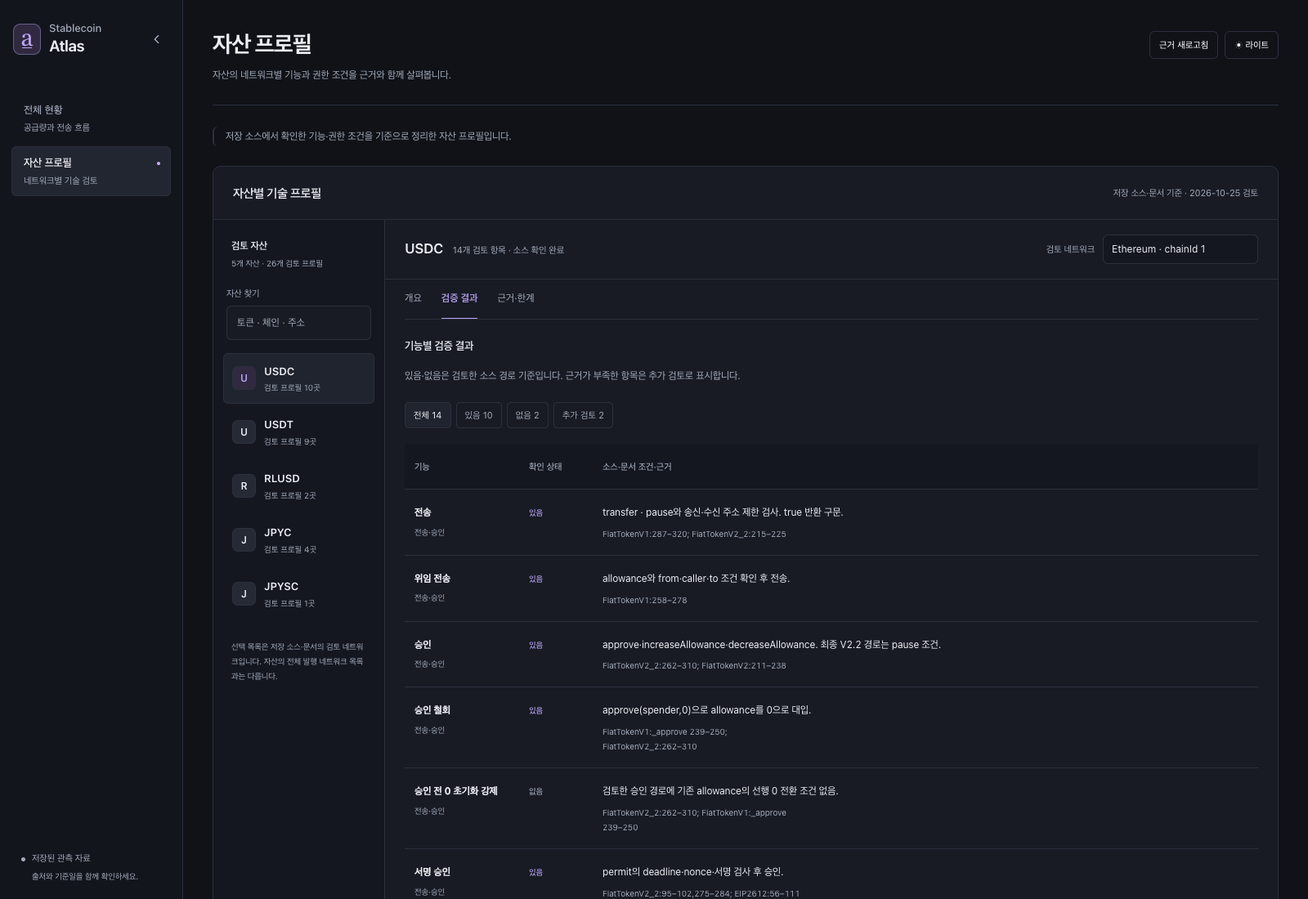
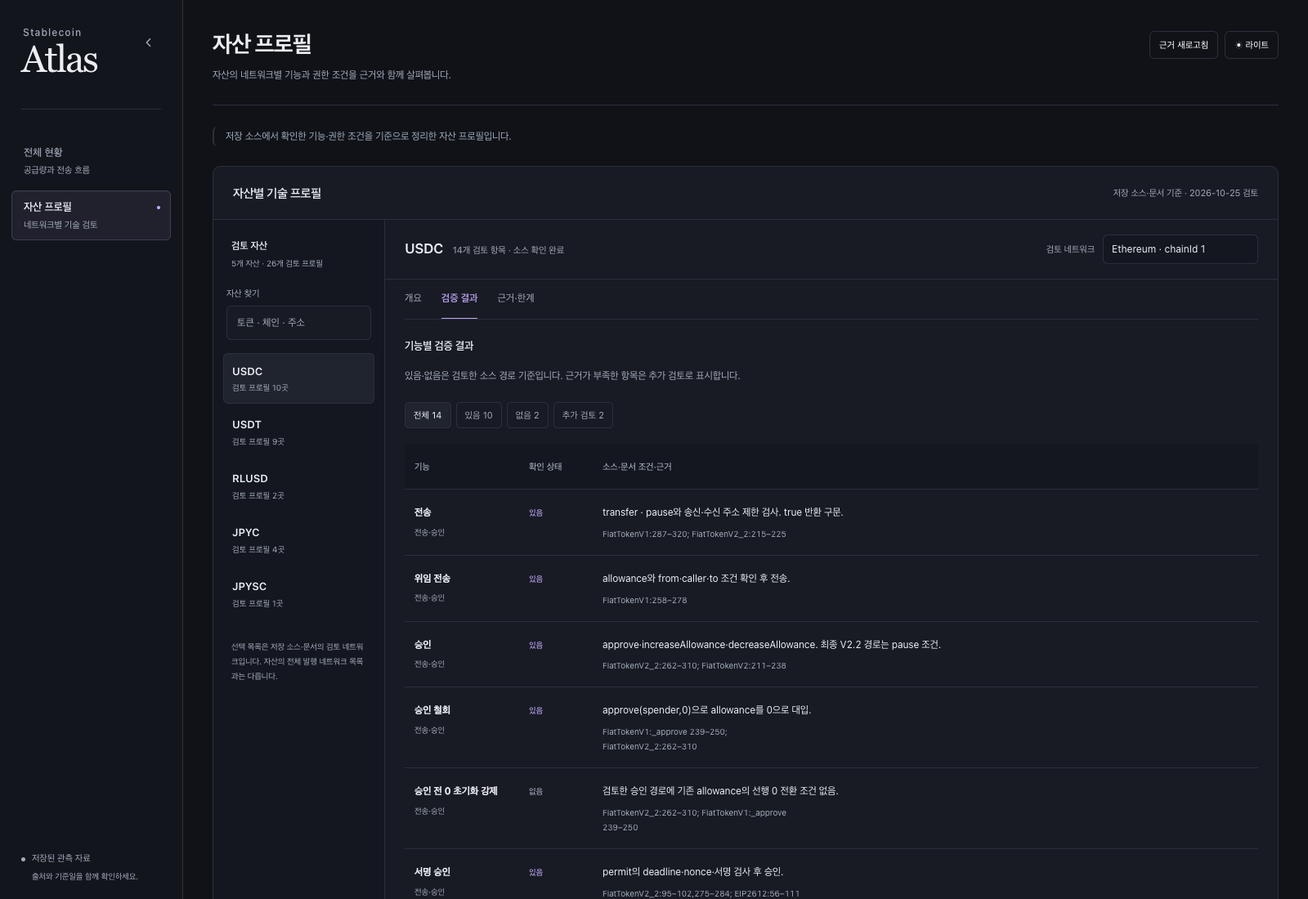
Refine Atlas wordmark and KPI hierarchy

diff --git a/web/styles.css b/web/styles.css
@@ -2,14 +2,14 @@
 :root{color-scheme:dark;--bg:#101218;--nav:#13151d;--panel:#181b24;--line:#2b303d;--muted:#a2abba;--ink:#ecedf3;--teal:#73c7b8;--purple:#bda5f5;--blue:#91afff;--pink:#dfa0bd;--track:#252a35;--tint:#302940;--control:#141720;--active:#30313e;--notice:#302b22;--notice-ink:#e8c58c;--shadow:0 12px 36px #0005;--surface-raised:#20242e;--hover:#222630;--danger:#ed9eaa;--sidebar-width:224px;--radius-sm:6px;--radius-md:10px;--radius-lg:14px;--space-1:4px;--space-2:8px;--space-3:12px;--space-4:16px;--space-5:24px;--space-6:32px;--text-xs:11px;--text-sm:12px;--text-base:14px;--text-heading:28px;--text-data:34px;--font-ui:-apple-system,BlinkMacSystemFont,"Apple SD Gothic Neo","Noto Sans KR",sans-serif;--font-data:"SF Pro Display",-apple-system,BlinkMacSystemFont,"Apple SD Gothic Neo",sans-serif}
 :root[data-theme=light]{color-scheme:light;--bg:#f5f6f8;--nav:#eef0f4;--panel:#fff;--line:#d7dce5;--muted:#596477;--ink:#202737;--teal:#216e60;--purple:#6743ad;--blue:#375eb5;--pink:#9a4269;--track:#e8ebf1;--tint:#ece5f8;--control:#f1f3f6;--active:#fff;--notice:#faf0dd;--notice-ink:#795515;--shadow:0 12px 36px #26324c14;--surface-raised:#fff;--hover:#e8ebf1;--danger:#a4354b}
 *{box-sizing:border-box}html{scroll-behavior:smooth;scroll-padding-top:24px}body{margin:0;background:var(--bg);color:var(--ink);font-family:-apple-system,BlinkMacSystemFont,"Apple SD Gothic Neo",sans-serif;font-size:14px;line-height:1.5;letter-spacing:-.2px}button,input{font:inherit}button,a,input{touch-action:manipulation}button{cursor:pointer}button,a{color:inherit}button{border:0}a{text-decoration:none}button:disabled{cursor:wait;opacity:.6}button:focus-visible,a:focus-visible,input:focus-visible,[tabindex]:focus-visible{outline:3px solid var(--purple);outline-offset:4px}button:focus:not(:focus-visible){outline:none}button,article,a{transition:background .18s,color .18s,box-shadow .18s}button:hover{filter:brightness(1.08)}button:active{transform:translateY(1px)}h1,h2,p{margin:0}h1{font-size:clamp(25px,2vw,32px);line-height:1.35;letter-spacing:-1px}h2{font-size:16px;font-weight:700}small{display:block}.muted,.chart-note{color:var(--muted)}.eyebrow{font-family:ui-monospace,Menlo,monospace;font-size:10px;letter-spacing:.8px;color:var(--muted);font-weight:600}.skip-link{position:fixed;left:250px;top:-100px;z-index:10;background:var(--panel);padding:12px}.skip-link:focus{top:12px}.sr-only{position:absolute;width:1px;height:1px;padding:0;margin:-1px;overflow:hidden;clip:rect(0,0,0,0);white-space:nowrap;border:0}[hidden]{display:none!important}
-.sidebar{position:fixed;inset:0 auto 0 0;width:232px;padding:28px 22px;display:flex;flex-direction:column;background:var(--nav);border-right:1px solid var(--line);z-index:3}.brand{display:flex;align-items:center;gap:12px;font-size:13px;font-weight:750;margin:0 3px 49px}.brand small{font-family:ui-monospace,Menlo,monospace;font-size:10px;color:var(--muted);letter-spacing:1px;margin-top:2px}.brand-mark{display:grid;place-items:center;width:32px;height:32px;border-radius:10px;background:linear-gradient(135deg,#a351e4,#6959d9);font-size:22px;color:#fff}.sidebar>.eyebrow{margin:0 5px 18px}.sidebar nav{margin:0 -8px}.nav-link{display:flex;width:100%;align-items:center;gap:17px;padding:12px 16px;border-radius:9px;background:none;text-align:left;color:var(--muted);margin-bottom:7px;font-size:13px}.nav-link>span:first-child{font-size:23px}.nav-link small{font-size:11px;font-weight:400;color:var(--muted);margin-top:2px}.nav-link.active{background:linear-gradient(90deg,#9d62e82e,#9d62e808);box-shadow:inset 3px 0 var(--purple);color:var(--ink);font-weight:650}.nav-link.active>span:first-child{color:var(--purple)}.nav-link:hover{background:var(--track)}.tracked{margin-top:25px;padding-top:28px;border-top:1px solid var(--line)}.tracked>.eyebrow{margin-bottom:15px}.tracked button{display:flex;align-items:center;gap:12px;background:none;font-size:13px;font-weight:600;padding:8px 2px;width:100%;text-align:left}.coin{width:35px;height:35px;display:inline-grid;place-items:center;border-radius:50%;font-size:17px;font-weight:700;flex:none}.usdt{color:var(--teal);background:color-mix(in srgb,var(--teal) 14%,transparent)}.usdc{color:var(--blue);background:color-mix(in srgb,var(--blue) 14%,transparent)}.rlusd{color:var(--purple);background:color-mix(in srgb,var(--purple) 14%,transparent)}.sidebar-bottom{margin-top:auto;padding-top:25px}.preview-note{background:var(--track);border-radius:12px;padding:16px;margin-bottom:22px}.preview-note .eyebrow{color:var(--purple)}.preview-note strong{display:block;font-size:13px;margin:8px 0 5px}.preview-note small{font-size:11px;color:var(--muted)}.primary-button{background:linear-gradient(120deg,#a351e4,#6959d9);color:#fff;border-radius:8px;min-height:40px;font-weight:650;padding:10px 18px;width:100%;margin-bottom:22px}.sidebar-bottom>.muted{font-family:ui-monospace,Menlo,monospace;font-size:9px;letter-spacing:.5px}
+.sidebar{position:fixed;inset:0 auto 0 0;width:232px;padding:28px 22px;display:flex;flex-direction:column;background:var(--nav);border-right:1px solid var(--line);z-index:3}.brand{display:flex;align-items:center;gap:12px;font-size:13px;font-weight:750;margin:0 3px 49px}.brand small{font-family:ui-monospace,Menlo,monospace;font-size:10px;color:var(--muted);letter-spacing:1px;margin-top:2px}.sidebar>.eyebrow{margin:0 5px 18px}.sidebar nav{margin:0 -8px}.nav-link{display:flex;width:100%;align-items:center;gap:17px;padding:12px 16px;border-radius:9px;background:none;text-align:left;color:var(--muted);margin-bottom:7px;font-size:13px}.nav-link>span:first-child{font-size:23px}.nav-link small{font-size:11px;font-weight:400;color:var(--muted);margin-top:2px}.nav-link.active{background:linear-gradient(90deg,#9d62e82e,#9d62e808);box-shadow:inset 3px 0 var(--purple);color:var(--ink);font-weight:650}.nav-link.active>span:first-child{color:var(--purple)}.nav-link:hover{background:var(--track)}.tracked{margin-top:25px;padding-top:28px;border-top:1px solid var(--line)}.tracked>.eyebrow{margin-bottom:15px}.tracked button{display:flex;align-items:center;gap:12px;background:none;font-size:13px;font-weight:600;padding:8px 2px;width:100%;text-align:left}.coin{width:35px;height:35px;display:inline-grid;place-items:center;border-radius:50%;font-size:17px;font-weight:700;flex:none}.usdt{color:var(--teal);background:color-mix(in srgb,var(--teal) 14%,transparent)}.usdc{color:var(--blue);background:color-mix(in srgb,var(--blue) 14%,transparent)}.rlusd{color:var(--purple);background:color-mix(in srgb,var(--purple) 14%,transparent)}.sidebar-bottom{margin-top:auto;padding-top:25px}.preview-note{background:var(--track);border-radius:12px;padding:16px;margin-bottom:22px}.preview-note .eyebrow{color:var(--purple)}.preview-note strong{display:block;font-size:13px;margin:8px 0 5px}.preview-note small{font-size:11px;color:var(--muted)}.primary-button{background:linear-gradient(120deg,#a351e4,#6959d9);color:#fff;border-radius:8px;min-height:40px;font-weight:650;padding:10px 18px;width:100%;margin-bottom:22px}.sidebar-bottom>.muted{font-family:ui-monospace,Menlo,monospace;font-size:9px;letter-spacing:.5px}
 main{margin-left:232px;padding:29px 40px 18px;max-width:2000px;min-height:100vh}.page-header{display:flex;justify-content:space-between;align-items:center;gap:24px;margin-bottom:18px}.page-header .eyebrow{margin-bottom:10px}.page-header h1+p{margin-top:7px;font-size:13px}.header-actions{display:flex;gap:10px;align-items:center;flex-wrap:wrap;justify-content:flex-end}.mock-badge{display:inline-block;color:var(--notice-ink);background:var(--notice);border-radius:7px;padding:6px 12px;font-size:10px;font-weight:750;letter-spacing:.3px}.quiet-button{background:var(--track);padding:9px 13px;border-radius:8px;font-size:12px;white-space:nowrap}.mock-notice{display:flex;align-items:center;gap:10px;padding:10px 14px;border-radius:9px;color:var(--notice-ink);background:var(--notice);font-size:12px}.mock-notice>span{font-size:9px}.status{font-size:11px;color:var(--muted);margin:9px 1px 12px;min-height:17px}.error-message{padding:14px;border:1px solid #da788c;color:var(--ink);background:var(--panel);border-radius:8px;margin-bottom:15px}.view-toolbar{display:flex;align-items:center;gap:18px;margin:15px 0 22px}.segmented{display:flex;background:var(--control);padding:4px;border-radius:9px}.segmented button{border-radius:6px;background:none;padding:7px 20px;color:var(--muted);font-size:12px}.segmented button[aria-pressed=true]{background:var(--active);color:var(--ink);box-shadow:0 1px 4px #0001}.metric-label{margin-left:auto;font-size:12px;color:var(--muted)}#scope-label{font-size:12px}.metrics{display:grid;grid-template-columns:1.35fr 1.2fr .86fr .9fr;gap:20px;margin-bottom:26px}.metric-card{position:relative;background:var(--panel);padding:22px 24px;border-radius:15px;border:1px solid transparent;overflow:hidden;min-width:0}.metric-card>p{font-size:12px;color:var(--muted)}.metric-card>p:last-child{font-size:11px;margin-top:13px}.metric-value{display:flex;align-items:baseline;gap:9px;white-space:nowrap;margin-top:5px;min-height:53px}.metric-value strong{font-size:clamp(29px,2.8vw,44px);font-weight:750;letter-spacing:-1.8px;font-variant-numeric:tabular-nums;line-height:1.4}.metric-value>span{font-size:13px;color:var(--muted)}.metric-card.lead-purple{background:linear-gradient(130deg,#a351e4,#6959d9);color:#fff}.metric-card.lead-teal{background:linear-gradient(130deg,#087f97,#3443aa);color:#fff}.lead-purple>p,.lead-teal>p,.lead-purple .metric-value>span,.lead-teal .metric-value>span{color:#f0eaff}.lead-purple:after,.lead-teal:after{content:"";position:absolute;width:185px;height:185px;border-radius:50%;background:#ffffff06;right:-55px;top:-80px;pointer-events:none}.metric-value .change-tag{font-size:11px;padding:5px 9px;border-radius:6px;background:#164b68;color:#c0ffec;letter-spacing:0}.grade{display:inline-grid;place-items:center;font-size:11px!important;background:var(--tint);color:var(--purple)!important;border-radius:7px;min-width:42px;min-height:25px;padding:3px 10px}.metric-value>.grade{align-self:center;margin-left:auto}
 .primary-grid{display:grid;grid-template-columns:minmax(0,2.1fr) minmax(290px,1fr);gap:24px;margin-bottom:24px}.secondary-grid{display:grid;grid-template-columns:repeat(3,minmax(0,1fr));gap:24px;margin-bottom:24px}.panel{background:var(--panel);border:1px solid transparent;border-radius:15px;padding:22px 24px;min-width:0}.panel-heading{display:flex;align-items:flex-start;justify-content:space-between;gap:12px;margin-bottom:18px}.panel-heading p{font-size:11px;color:var(--muted);margin-top:5px}.chart-filters{display:flex;background:var(--control);padding:4px;border-radius:7px;flex:none}.chart-filters button{background:none;border-radius:5px;color:var(--muted);padding:5px 12px;font-size:10px}.chart-filters button[aria-pressed=true]{background:var(--active);color:var(--ink)}.history-panel{display:flex;flex-direction:column}.history-chart{min-height:240px;position:relative;display:flex;align-items:center;flex:1}.history-chart svg{display:block;width:100%;height:auto;overflow:visible}.history-chart .grid-line{stroke:var(--line)}.history-chart .axis-text{fill:var(--muted);font-size:11px;font-family:ui-monospace,Menlo,monospace}.history-chart .trend-line{fill:none;stroke:var(--teal);stroke-width:3;stroke-linecap:round;stroke-linejoin:round}.history-chart .data-point{fill:var(--panel);stroke:var(--teal);stroke-width:2;cursor:crosshair}.history-chart .data-point:hover,.history-chart .data-point:focus{fill:var(--teal);r:6}.chart-tooltip{position:absolute;z-index:2;pointer-events:none;background:var(--active);border:1px solid var(--line);border-radius:9px;padding:10px 12px;box-shadow:var(--shadow);font-size:12px;max-width:240px;top:8px}.chart-tooltip strong{display:block;color:var(--ink);font-size:15px;font-variant-numeric:tabular-nums}.chart-tooltip small{color:var(--muted)}.chart-note{font-size:10px;margin-top:12px}.empty-state{display:grid;place-content:center;text-align:center;color:var(--muted);min-height:235px;width:100%;gap:8px}.empty-state strong{font-size:17px;color:var(--ink)}.ranking{display:grid;gap:15px;max-height:315px;overflow:auto;padding:2px 4px 4px 0}.ranking-row{background:none;text-align:left;width:100%;padding:6px 0 10px}.ranking-row:hover{background:var(--control);border-radius:7px}.rank-top{display:flex;align-items:center;gap:10px}.rank-name{flex:1;min-width:0}.rank-name strong{display:block;font-size:13px}.rank-name small{font-size:10px;color:var(--muted);margin-top:3px}.rank-value{font-size:20px;font-weight:700;letter-spacing:-.5px;font-variant-numeric:tabular-nums}.track{height:5px;border-radius:4px;background:var(--track);overflow:hidden;margin-top:15px}.track-fill{display:block;height:100%;border-radius:4px;background:var(--teal)}.asset-usdc .track-fill{background:var(--blue)}.asset-rlusd .track-fill{background:var(--purple)}.text-link{display:inline-block;padding:0;background:none;color:var(--purple);font-size:11px;font-weight:650;margin-top:15px}.text-link:hover{text-decoration:underline}.composition{display:flex;align-items:center;gap:22px;min-height:175px}.donut{position:relative;width:168px;height:168px;flex:none}.donut svg{width:100%;height:100%;transform:rotate(-90deg)}.donut-center{position:absolute;inset:0;display:flex;align-items:center;justify-content:center;flex-direction:column;gap:4px;pointer-events:none}.donut-center small{font-size:10px;font-family:ui-monospace,Menlo,monospace;color:var(--muted)}.donut-center strong{font-size:23px;font-variant-numeric:tabular-nums;letter-spacing:-.8px}.composition-legend{display:grid;gap:20px;flex:1}.legend-row{display:flex;align-items:center;gap:8px;white-space:nowrap;font-size:11px}.legend-row>span:last-child{margin-left:auto;color:var(--muted)}.legend-dot{width:7px;height:7px;border-radius:50%;background:var(--teal);display:inline-block;flex:none}.legend-dot.usdc{background:var(--blue)}.legend-dot.rlusd{background:var(--purple)}.chain-bars{display:grid;gap:20px;margin:25px 0 20px;min-height:150px}.chain-row{display:grid;grid-template-columns:75px 1fr 36px;align-items:center;gap:12px;font-size:11px}.chain-row .track{margin:0;height:8px}.chain-row>span:last-child{text-align:right;color:var(--muted)}.chain-row:nth-child(1) .track-fill{background:var(--purple)}.chain-row:nth-child(3) .track-fill{background:var(--blue)}.chain-row:nth-child(4) .track-fill{background:var(--pink)}.evidence-scores{display:grid;gap:14px;min-height:155px;margin-top:24px}.score-button{background:none;padding:0;text-align:left;font-size:12px}.score-button>div:first-child{display:flex;align-items:center;gap:16px}.score-button .grade{margin-left:auto}.score-button .muted{font-size:11px}.score-button .track{margin-top:9px;height:4px}.score-button .track-fill{background:var(--purple)}.score-button:nth-child(2) .track-fill{background:var(--blue)}.score-button:nth-child(3) .track-fill{background:var(--pink)}
 .profiles-panel{scroll-margin-top:24px}.profiles-panel .panel-heading{align-items:center}.search-label{display:flex;align-items:center;gap:10px;font-size:12px;color:var(--muted)}input{background:var(--control);border:1px solid var(--line);border-radius:8px;padding:9px 12px;color:var(--ink);width:210px}.table-scroll{overflow:auto}table{border-collapse:collapse;width:100%;font-size:12px;white-space:nowrap;text-align:left}th{font-size:11px;color:var(--muted);font-weight:500}td,th{padding:14px 12px;border-bottom:1px solid var(--line)}td:first-child,th:first-child{padding-left:0}td:last-child,th:last-child{text-align:right;padding-right:0}td{font-variant-numeric:tabular-nums}td button{background:none;color:var(--purple);padding:4px;border-radius:3px;font-size:11px}th button{background:none;color:var(--muted);padding:0}tbody tr:hover{background:color-mix(in srgb,var(--purple) 5%,transparent)}footer{display:flex;justify-content:space-between;gap:16px;color:var(--muted);font-size:10px;margin:23px 0 0}dialog{width:min(620px,calc(100% - 32px));max-height:85vh;overflow:auto;border:1px solid var(--line);border-radius:18px;padding:25px;background:var(--panel);color:var(--ink);box-shadow:var(--shadow)}dialog::backdrop{background:#080b1899;backdrop-filter:blur(4px)}.dialog-header{display:flex;align-items:center;justify-content:space-between;margin-bottom:20px}dialog h2{font-size:24px;margin-bottom:16px}dialog p{font-size:13px;color:var(--muted);line-height:1.9;margin:12px 0}dialog dl{display:grid;grid-template-columns:110px 1fr;gap:0;font-size:13px;margin:20px 0}dialog dt,dialog dd{margin:0;padding:13px 0;border-bottom:1px solid var(--line)}dialog dt{color:var(--muted)}dialog dd{overflow-wrap:anywhere}.exact{font-family:ui-monospace,Menlo,monospace;font-variant-numeric:tabular-nums}.dialog-notice{padding:12px 15px;border-radius:8px;background:var(--notice);color:var(--notice-ink)!important}html[data-theme=light] .panel,html[data-theme=light] .metric-card:not(.lead-purple):not(.lead-teal){border-color:var(--line)}
 @media(min-width:1750px){main{padding-left:48px;padding-right:48px}.metric-value strong{font-size:46px}.history-chart{min-height:290px}.ranking{gap:25px}.composition{justify-content:space-around}.secondary-grid .panel{padding-bottom:27px}}
 @media(max-width:1300px){main{padding:24px}.metrics{grid-template-columns:1.3fr 1.2fr 1fr;gap:15px}.metric-card:last-child{grid-column:1/-1;display:flex;align-items:center;gap:20px;padding-top:10px;padding-bottom:10px}.metric-card:last-child .metric-value{margin:0;min-height:0}.metric-card:last-child .metric-value strong{font-size:26px}.metric-card:last-child>p:last-child{margin:0 0 0 auto}.primary-grid{grid-template-columns:minmax(0,1.7fr) minmax(270px,1fr)}.secondary-grid{grid-template-columns:repeat(2,minmax(0,1fr))}.secondary-grid>.panel:last-child{grid-column:1/-1}.evidence-scores{grid-template-columns:repeat(3,minmax(0,1fr));min-height:0;gap:24px}.panel-heading{flex-wrap:wrap}.chart-filters{margin-bottom:0}.header-actions{max-width:230px}.composition{justify-content:space-around}}
 @media(max-width:1000px){.sidebar{width:195px;padding:24px 16px}.brand{gap:8px}.brand span:last-child{font-size:11px}.sidebar .tracked{display:none}main{margin-left:195px}.metrics{grid-template-columns:repeat(2,minmax(0,1fr))}.metric-card:last-child{grid-column:auto;display:block;padding:22px 24px}.metric-card:last-child .metric-value{margin-top:5px;min-height:53px}.metric-card:last-child .metric-value strong{font-size:35px}.metric-card:last-child>p:last-child{margin-top:13px}.primary-grid{grid-template-columns:1fr}.ranking{grid-template-columns:repeat(3,minmax(0,1fr));gap:20px;max-height:none}.rank-value{font-size:16px}.ranking-row .coin{display:none}.rank-top{flex-wrap:wrap}.rank-name{flex-basis:100%}.secondary-grid{grid-template-columns:1fr}.secondary-grid>.panel:last-child{grid-column:auto}.chain-bars{min-height:0}.composition{justify-content:center}.composition-legend{flex:0 1 180px}.metric-label{display:none}.evidence-scores{grid-template-columns:1fr}.page-header{align-items:flex-start}.page-header h1+p{max-width:260px}.header-actions{max-width:165px}.score-button .track{margin-top:9px}}
-@media(max-width:700px){html{scroll-padding-top:15px}.sidebar{position:static;width:auto;padding:15px 18px;border:0;border-bottom:1px solid var(--line);flex-direction:row;align-items:center;gap:16px}.brand{margin:0;flex:none}.brand-mark{width:29px;height:29px}.sidebar>.eyebrow,.sidebar-bottom,.tracked,.nav-link span:first-child,.nav-link small{display:none}.sidebar nav{display:flex;margin:0 0 0 auto;gap:4px;overflow:auto}.nav-link{font-size:11px;padding:8px;white-space:nowrap;margin:0;width:auto;display:block}.nav-link[data-action=compare],.nav-link[data-action=evidence]{display:none}main{margin:0;padding:23px 16px}.page-header{flex-wrap:wrap;gap:14px}.header-actions{max-width:none;justify-content:flex-start}.page-header h1+p{max-width:none}.page-header h1{font-size:27px}.mock-notice{font-size:11px}.view-toolbar{gap:12px;flex-wrap:wrap}.view-toolbar .segmented button{padding:7px 14px}.metric-card{padding:17px}.metrics{gap:12px;margin-bottom:18px}.metric-card:last-child{padding:17px}.metric-value{flex-wrap:wrap;gap:3px 7px;min-height:52px}.metric-value strong{font-size:28px;letter-spacing:-1px}.metric-value>span{font-size:10px}.metric-card>p{font-size:10px}.metric-card>p:last-child{font-size:10px;line-height:1.65;margin-top:8px}.metric-card:last-child .metric-value strong{font-size:29px}.metric-card:last-child>p:last-child{margin-top:8px}.metric-value .change-tag{font-size:9px;padding:3px 6px}.metric-value>.grade{min-width:25px;margin-left:auto}.primary-grid,.secondary-grid{gap:18px;margin-bottom:18px}.panel{padding:18px}.panel-heading{margin-bottom:12px}.history-chart{min-height:190px}.chart-filters button{padding:5px 10px}.ranking{gap:12px}.rank-value{font-size:16px}.rank-name strong{font-size:12px}.rank-name small{font-size:9px}.composition{gap:20px}.composition-legend{flex-basis:140px}.donut{width:155px;height:155px}.profiles-panel .panel-heading{align-items:flex-start;gap:15px}.search-label{width:100%}.search-label input{flex:1;width:auto}footer{flex-direction:column;gap:5px}.skip-link{left:15px}.chart-tooltip{max-width:190px;font-size:10px}.chart-tooltip strong{font-size:12px}}
+@media(max-width:700px){html{scroll-padding-top:15px}.sidebar{position:static;width:auto;padding:15px 18px;border:0;border-bottom:1px solid var(--line);flex-direction:row;align-items:center;gap:16px}.brand{margin:0;flex:none}.sidebar>.eyebrow,.sidebar-bottom,.tracked,.nav-link span:first-child,.nav-link small{display:none}.sidebar nav{display:flex;margin:0 0 0 auto;gap:4px;overflow:auto}.nav-link{font-size:11px;padding:8px;white-space:nowrap;margin:0;width:auto;display:block}.nav-link[data-action=compare],.nav-link[data-action=evidence]{display:none}main{margin:0;padding:23px 16px}.page-header{flex-wrap:wrap;gap:14px}.header-actions{max-width:none;justify-content:flex-start}.page-header h1+p{max-width:none}.page-header h1{font-size:27px}.mock-notice{font-size:11px}.view-toolbar{gap:12px;flex-wrap:wrap}.view-toolbar .segmented button{padding:7px 14px}.metric-card{padding:17px}.metrics{gap:12px;margin-bottom:18px}.metric-card:last-child{padding:17px}.metric-value{flex-wrap:wrap;gap:3px 7px;min-height:52px}.metric-value strong{font-size:28px;letter-spacing:-1px}.metric-value>span{font-size:10px}.metric-card>p{font-size:10px}.metric-card>p:last-child{font-size:10px;line-height:1.65;margin-top:8px}.metric-card:last-child .metric-value strong{font-size:29px}.metric-card:last-child>p:last-child{margin-top:8px}.metric-value .change-tag{font-size:9px;padding:3px 6px}.metric-value>.grade{min-width:25px;margin-left:auto}.primary-grid,.secondary-grid{gap:18px;margin-bottom:18px}.panel{padding:18px}.panel-heading{margin-bottom:12px}.history-chart{min-height:190px}.chart-filters button{padding:5px 10px}.ranking{gap:12px}.rank-value{font-size:16px}.rank-name strong{font-size:12px}.rank-name small{font-size:9px}.composition{gap:20px}.composition-legend{flex-basis:140px}.donut{width:155px;height:155px}.profiles-panel .panel-heading{align-items:flex-start;gap:15px}.search-label{width:100%}.search-label input{flex:1;width:auto}footer{flex-direction:column;gap:5px}.skip-link{left:15px}.chart-tooltip{max-width:190px;font-size:10px}.chart-tooltip strong{font-size:12px}}
 @media(prefers-reduced-motion:reduce){html{scroll-behavior:auto}*,*:before,*:after{transition:none!important;animation:none!important}}
 /* Stored validation evidence uses its own data and verdict labels, never mock grades. */
 .evidence-badge{background:color-mix(in srgb,var(--teal) 13%,transparent);color:var(--teal);border-radius:7px;padding:6px 12px;font-size:10px;font-weight:750}.evidence-notice,.semantic-note{background:var(--control);padding:13px 16px;border-left:3px solid var(--purple);border-radius:6px;color:var(--muted);font-size:12px;line-height:1.85;margin:12px 0 18px}.evidence-metrics{display:grid;grid-template-columns:repeat(4,minmax(0,1fr));gap:18px;margin:22px 0}.evidence-metric-value{display:block;font-size:35px;margin:9px 0;color:var(--ink);font-variant-numeric:tabular-nums}.evidence-filters{display:flex;gap:12px;flex-wrap:wrap;margin:18px 0 22px}.evidence-filters label,.section-toolbar label{display:grid;gap:6px;font-size:11px;color:var(--muted)}select{background:var(--control);color:var(--ink);border:1px solid var(--line);border-radius:8px;padding:9px 12px;font:inherit;max-width:260px}.evidence-filters input{width:190px}.evidence-screen table small{margin-top:5px;font-size:10px;white-space:normal;max-width:250px}.verdict-badge{display:inline-block;padding:4px 7px;border:1px solid var(--line);border-radius:5px;font-size:10px;letter-spacing:.2px;font-weight:700}.verdict-pass{background:color-mix(in srgb,var(--teal) 12%,transparent);color:var(--teal)}.verdict-fail{background:color-mix(in srgb,var(--pink) 12%,transparent);color:var(--pink)}.verdict-inconclusive{background:var(--notice);color:var(--notice-ink)}.verdict-not_tested,.verdict-not_applicable,.verdict-unsupported{color:var(--muted);background:var(--control)}.asset-cards{display:grid;grid-template-columns:repeat(auto-fit,minmax(235px,1fr));gap:16px;margin:18px 0 25px}.asset-card,.report-card{display:grid;gap:7px;text-align:left;padding:20px;background:var(--panel);border:1px solid var(--line);border-radius:13px;color:var(--ink);font-size:12px;min-width:0}.asset-card strong{font-size:19px;margin:6px 0}.asset-card.selected{border-color:var(--purple);box-shadow:inset 3px 0 var(--purple)}.asset-card:hover{background:var(--control)}.document-links{display:flex;gap:16px;flex-wrap:wrap;margin-bottom:15px}.document-links .text-link{margin-top:10px;font-size:11px}.report-card p{font-size:11px;overflow-wrap:anywhere}.report-card code{font-size:10px;color:var(--muted)}#asset-detail{scroll-margin-top:25px}#asset-detail dl{display:grid;grid-template-columns:125px minmax(0,1fr);font-size:12px;gap:0}#asset-detail dt,#asset-detail dd{margin:0;padding:9px;border-bottom:1px solid var(--line);overflow-wrap:anywhere}#asset-detail dt{color:var(--muted)}#asset-detail h3{margin-top:22px}#asset-detail .table-scroll{margin-top:15px}.scenario-button{display:flex;align-items:center;justify-content:space-between;gap:15px;background:var(--control);border:1px solid var(--line);border-radius:7px;padding:9px;width:100%;text-align:left;font-size:11px;color:var(--ink)}.comparison-table th,.comparison-table td{vertical-align:top;white-space:normal;min-width:205px;max-width:350px;text-align:left!important}.comparison-table th:first-child{min-width:140px;max-width:180px}.comparison-cell{margin-bottom:14px}.comparison-cell small{line-height:1.7}.comparison-table th .document-links{gap:6px}.evidence-pre{max-height:340px;overflow:auto;white-space:pre-wrap;overflow-wrap:anywhere;border:1px solid var(--line);background:var(--control);border-radius:8px;padding:14px;font:11px/1.8 ui-monospace,Menlo,monospace}dialog details{margin-top:10px}dialog summary{cursor:pointer;font-size:11px;overflow-wrap:anywhere}dialog h3{font-size:14px;margin-top:23px}#evidence-workspace #evidence-items tr td:first-child{max-width:260px;white-space:normal}#evidence-workspace .panel{margin-bottom:20px}@media(max-width:1100px){.evidence-metrics{grid-template-columns:repeat(2,minmax(0,1fr))}.sidebar .nav-link{font-size:12px}.sidebar nav .nav-link{padding-top:9px;padding-bottom:9px}}@media(max-width:700px){.evidence-metrics{gap:12px}.evidence-metric-value{font-size:29px}.evidence-filters label{flex:1 1 140px;min-width:0}.evidence-filters select,.evidence-filters input{width:100%;max-width:100%}.sidebar nav .nav-link{font-size:10px;padding:8px}.sidebar nav [data-screen=market]{display:none}.sidebar .brand{gap:6px}.sidebar .brand span:last-child{font-size:10px}.sidebar nav{gap:1px}.asset-cards{grid-template-columns:1fr}.comparison-table th,.comparison-table td{min-width:210px}#asset-detail dl{grid-template-columns:90px minmax(0,1fr)}}
@@ -256,20 +256,20 @@ button,a,input,select,summary{transition:background-color .15s,border-color .15s
 h1{font-size:var(--text-heading);line-height:1.3;letter-spacing:-1px;font-weight:650}h2{font-size:16px;font-weight:600;letter-spacing:-.35px}
 main{margin-left:var(--sidebar-width);padding:36px 36px 24px;max-width:none}
 main>section{max-width:1560px;margin-inline:auto}
-.sidebar{width:var(--sidebar-width);padding:26px 14px 20px;background:var(--nav);border-color:var(--line);z-index:5}
-.sidebar-brand-row{display:flex;align-items:center;gap:4px;margin:0 2px 44px;min-height:44px}
-.sidebar .brand{display:flex;gap:10px;flex:1;min-width:0;margin:0;font-size:13px;letter-spacing:-.15px;font-weight:500}
-.sidebar .brand-mark{position:relative;width:34px;height:38px;flex:none;border:1px solid color-mix(in srgb,var(--purple) 40%,var(--line));border-radius:9px;background:var(--tint);font:500 30px/1 Georgia,serif;color:var(--purple);padding-bottom:5px}
-.brand-mark>span{position:absolute;width:12px;height:1px;bottom:7px;background:var(--purple)}
-.brand-name{line-height:1.35;color:var(--muted)}.brand-name strong{display:block;font-size:19px;letter-spacing:-.5px;font-weight:650;color:var(--ink)}
+.sidebar{width:var(--sidebar-width);padding:26px 14px 20px;background:var(--nav);border-color:var(--line);box-shadow:inset -1px 0 color-mix(in srgb,var(--ink) 2%,transparent);z-index:5}
+.sidebar-brand-row{position:relative;display:flex;align-items:flex-start;gap:4px;margin:0 12px 32px;padding:8px 0 28px;min-height:108px;border-bottom:1px solid var(--line)}
+.sidebar .brand{display:flex;flex:1;min-width:0;margin:0;padding:0 0 2px;letter-spacing:0}
+.brand-name{display:flex;flex-direction:column;align-items:flex-start;line-height:1;color:var(--ink)}
+.brand-name>span{font-size:12px;font-weight:500;letter-spacing:1.1px;color:var(--muted);margin:0 0 5px 2px}
+.brand-name strong{display:block;font:400 46px/.95 Georgia,"Times New Roman",serif;letter-spacing:-2px;color:var(--ink)}
 .navigation-toggle{display:grid;place-items:center;width:32px;height:36px;flex:none;border:1px solid transparent;border-radius:var(--radius-sm);color:var(--muted);background:transparent;padding:7px}
 .navigation-toggle:hover{color:var(--ink);background:var(--hover);border-color:var(--line)}
 .navigation-toggle svg{width:18px;height:18px;fill:none;stroke:currentColor;stroke-width:1.5;stroke-linecap:round;stroke-linejoin:round}
-.sidebar nav{display:grid;gap:4px;margin:0}
+.sidebar nav{display:grid;gap:6px;margin:0}
 .sidebar nav .nav-link{position:relative;min-height:58px;margin:0;padding:10px 14px;border:1px solid transparent;border-radius:var(--radius-sm);gap:0;font-size:13px;font-weight:500;line-height:1.5;color:var(--muted);background:transparent;box-shadow:none}
 .sidebar .nav-link>span:first-child{font-size:13px}
 .sidebar .nav-link small{font-size:11px;font-weight:400;line-height:1.5;margin-top:3px;color:var(--muted)}
-.sidebar nav .nav-link.active{background:var(--hover);color:var(--ink);font-weight:600;border-color:var(--line);box-shadow:none}
+.sidebar nav .nav-link.active{background:color-mix(in srgb,var(--purple) 8%,var(--nav));color:var(--ink);font-weight:600;border-color:color-mix(in srgb,var(--purple) 12%,var(--line));box-shadow:inset 0 1px color-mix(in srgb,var(--ink) 3%,transparent)}
 .sidebar nav .nav-link.active::after{content:"";position:absolute;right:12px;top:18px;width:4px;height:4px;border-radius:50%;background:var(--purple)}
 .sidebar nav .nav-link:hover{color:var(--ink);background:var(--hover)}
 .nav-compact{display:none}.sidebar-context{margin-top:auto;padding:24px 12px 0;display:flex;gap:8px;align-items:baseline;color:var(--muted);font-size:11px;line-height:1.6}
@@ -335,16 +335,18 @@ time,.metric-value,.market-stat-value,.summary-value,.trend-value,.supply-rank-a
 .overview-toolbar .supply-coin::before{content:"";display:inline-block;width:5px;height:5px;border-radius:50%;background:var(--coin-color);margin-right:7px;vertical-align:2px}
 .overview-toolbar .supply-coin:hover{background:var(--hover);color:var(--ink)}.overview-toolbar .supply-coin:disabled{opacity:.45;cursor:not-allowed}
 .overview-token-label{font-size:11px;letter-spacing:0;font-weight:500;color:var(--muted)}
-.overview-summary-grid{gap:0;border:1px solid var(--line);border-radius:var(--radius-md);background:var(--panel);margin-bottom:24px;overflow:hidden}
-.overview-summary-card{min-height:132px;padding:21px 26px;background:transparent;color:var(--ink);border-radius:0;overflow:visible}
+.overview-summary-grid{gap:0;border:1px solid var(--line);border-radius:var(--radius-md);background:var(--panel);margin-bottom:26px;overflow:hidden;box-shadow:0 4px 14px #0000000c,inset 0 1px color-mix(in srgb,var(--ink) 4%,transparent)}
+.overview-summary-card{min-height:158px;padding:22px 26px 18px;background:color-mix(in srgb,var(--purple) 3%,var(--panel));color:var(--ink);border-radius:0;overflow:visible}
+.summary-volume{background:color-mix(in srgb,var(--teal) 3%,var(--panel))}
 .overview-summary-card+.overview-summary-card{border-left:1px solid var(--line)}
 .overview-summary-card::before{display:none}.summary-heading{font-size:12px;color:var(--muted);font-weight:500;opacity:1;line-height:1.5}
-.summary-heading::before{content:"";width:4px;height:4px;background:var(--purple);border-radius:50%;margin-right:8px}.summary-heading{justify-content:flex-start}
+.summary-heading::before{content:"";width:16px;height:1px;background:var(--purple);margin-right:9px}.summary-heading{justify-content:flex-start}
 .summary-volume .summary-heading::before{background:var(--teal)}
-.summary-value{font-size:var(--text-data);line-height:1.15;font-weight:550;letter-spacing:-1px;margin-top:13px;gap:8px}
+.summary-value{font-size:42px;line-height:1.15;font-weight:500;letter-spacing:-1.5px;margin-top:14px;gap:10px}
 .summary-value small{font-size:11px;letter-spacing:0;font-weight:400;color:var(--muted);opacity:1}
-.summary-meta{font-size:11px;margin-top:12px;opacity:1;color:var(--muted);gap:16px;justify-content:flex-start}
-.summary-meta>span{color:var(--ink)}.summary-meta time{padding-left:16px;border-left:1px solid var(--line)}
+.summary-meta{font-size:11px;margin-top:17px;padding-top:11px;border-top:1px solid color-mix(in srgb,var(--line) 75%,transparent);opacity:1;color:var(--muted);gap:16px;justify-content:space-between}
+.summary-meta time::before{content:"기준일 ";font-family:var(--font-ui);font-size:10px;color:var(--muted)}
+.summary-meta>span{color:var(--ink)}.summary-meta time{padding-left:0;border:0}
 .summary-stale{top:18px;right:20px;font-size:10px;background:var(--notice);color:var(--notice-ink);border:1px solid var(--line)}
 .overview-metric-row{grid-template-columns:minmax(0,1fr) 280px;gap:0;height:410px;border:1px solid var(--line);border-radius:var(--radius-md);background:var(--panel);overflow:hidden;margin-bottom:24px}
 .overview-card{border:0;border-radius:0;background:transparent;padding:22px 24px}
@@ -397,8 +399,10 @@ dialog::backdrop{background:#090c16a6}
 @media(min-width:901px){
  .sidebar-collapsed{--sidebar-width:76px}
  .sidebar-collapsed .sidebar{padding-inline:9px}
- .sidebar-collapsed .sidebar-brand-row{flex-direction:column;gap:18px;margin-bottom:30px}
- .sidebar-collapsed .brand-name,.sidebar-collapsed .nav-copy,.sidebar-collapsed .sidebar-context{display:none}
+ .sidebar-collapsed .sidebar-brand-row{flex-direction:column;align-items:center;gap:20px;margin:0 0 24px;padding:8px 0 22px;min-height:0}
+ .sidebar-collapsed .brand-name>span,.sidebar-collapsed .nav-copy,.sidebar-collapsed .sidebar-context{display:none}
+ .sidebar-collapsed .brand-name strong{font-size:21px;letter-spacing:-.7px}
+ .sidebar-collapsed .sidebar .brand{flex:0}
  .sidebar-collapsed .nav-compact{display:block;font-size:11px}
  .sidebar-collapsed .sidebar nav .nav-link{justify-content:center;padding:10px 4px;min-height:44px}
  .sidebar-collapsed .sidebar nav .nav-link.active::after{top:auto;bottom:5px;right:calc(50% - 2px)}
@@ -409,7 +413,7 @@ dialog::backdrop{background:#090c16a6}
 @media(max-width:900px){
  :root{--sidebar-width:0px}
  .mobile-masthead{display:flex;position:sticky;top:0;z-index:6;align-items:center;justify-content:space-between;gap:12px;min-height:56px;padding:10px 20px;background:var(--nav);border-bottom:1px solid var(--line)}
- .mobile-brand{font-size:13px;letter-spacing:-.25px;color:var(--muted)}.mobile-brand strong{font-weight:650;color:var(--ink);margin-left:3px}
+ .mobile-brand{display:flex;align-items:baseline;gap:7px;font-size:12px;letter-spacing:.2px;color:var(--muted)}.mobile-brand strong{font:400 24px/1 Georgia,"Times New Roman",serif;letter-spacing:-.8px;color:var(--ink)}
  #mobile-nav-toggle{width:36px;height:36px}
  .sidebar{display:none;position:static;width:100%;height:auto;padding:12px 16px 16px;border-right:0;border-bottom:1px solid var(--line)}
  .mobile-navigation-open .sidebar{display:flex}
@@ -428,7 +432,7 @@ dialog::backdrop{background:#090c16a6}
  .overview-card.supply-network-ranking.overview-donut-card{height:auto;max-height:none;display:grid;grid-template-columns:140px minmax(0,1fr);column-gap:20px}
  .overview-donut-heading,.donut-scope{grid-column:1/-1}.overview-donut{align-self:center;margin:15px 0}.donut-legend{max-height:220px;margin-top:12px}
  .overview-donut-card .donut-legend-entry{column-gap:10px}
- .overview-summary-card{padding:18px 20px;min-height:125px}.summary-value{font-size:30px}.summary-value small{display:inline;font-size:10px}.summary-meta{font-size:10px;flex-wrap:wrap;gap:8px}
+ .overview-summary-card{padding:20px;min-height:148px}.summary-value{font-size:36px}.summary-value small{display:inline;font-size:10px}.summary-meta{font-size:10px;flex-wrap:wrap;gap:8px}
  .summary-meta time{padding-left:8px}.overview-summary-grid{margin-bottom:20px}
  .overview-source-asset{grid-template-columns:120px minmax(0,1fr);gap:10px 18px}.overview-source-asset-footer{grid-column:2}
  .skip-link{left:12px}.skip-link:focus{top:62px}
@@ -438,7 +442,7 @@ dialog::backdrop{background:#090c16a6}
  .header-actions{width:100%}.header-actions .quiet-button{min-height:36px}.header-actions button:last-child{margin-left:auto}
  .sidebar nav{grid-template-columns:1fr}.sidebar nav .nav-link{min-height:48px}.sidebar .nav-copy{display:flex;align-items:center;gap:14px}.sidebar .nav-link small{margin:0}
  .overview-toolbar .supply-selection{gap:12px}.supply-currency-tabs{border-right:1px solid var(--line);padding-right:10px}.overview-toolbar .supply-coins{gap:2px}.overview-toolbar .supply-coin{padding:6px 9px;font-size:11px}.overview-toolbar .supply-coin::before{margin-right:5px}
- .overview-summary-card{padding:17px 16px;min-height:132px}.summary-heading{font-size:10px}.summary-heading::before{margin-right:6px}.summary-value{font-size:27px;flex-wrap:wrap;gap:4px;letter-spacing:-.6px}.summary-value small{font-size:10px}.summary-meta{font-size:10px;display:block;margin-top:10px}.summary-meta time{display:block;border:0;padding:0;margin-top:3px}
+ .overview-summary-card{padding:18px 16px 14px;min-height:150px}.summary-heading{font-size:10px}.summary-heading::before{margin-right:6px}.summary-value{display:grid;grid-template-columns:minmax(0,1fr);grid-template-rows:auto 14px;min-height:52px;align-content:start;font-size:29px;gap:4px;letter-spacing:-.8px}.summary-value small{font-size:10px}.summary-meta{font-size:10px;display:block;margin-top:10px}.summary-meta time{display:block;border:0;padding:0;margin-top:3px}
  .overview-card{padding:18px 14px}.overview-card-heading{gap:12px;align-items:flex-start}.overview-card .metric-title-row h2{font-size:14px}.overview-card .supply-switches{width:100%;flex-wrap:wrap;gap:6px}.overview-card .chart-filters button{font-size:10px;padding:6px 10px;min-height:30px}
  .overview-chart-plot .chart-note{font-size:10px}.overview-trend-card{min-height:290px}
  .overview-card.supply-network-ranking{padding:16px 14px}.overview-card .supply-rank-list{grid-template-columns:1fr;max-height:220px}.overview-card .supply-rank-name{font-size:12px}.overview-card .supply-rank-amount{font-size:13px}.supply-rank-day{font-size:10px}

diff --git a/web/source-review.js b/web/source-review.js
@@ -45,8 +45,7 @@ export function initializeSourceReview(root,snapshot){
       const profiles=sourceReviewProfiles.filter(p=>p.coinId===id);
       if(query&&!found.some(p=>p.coinId===id))continue;
       const button=node('button',undefined,'source-review-asset');button.type='button';button.dataset.coinId=id;button.setAttribute('aria-pressed',String(id===coinId));
-      const mark=node('span',id.slice(0,1).toUpperCase(),'source-review-mark');mark.setAttribute('aria-hidden','true');
-      const text=node('span');text.append(node('strong',id.toUpperCase()),node('small',`검토 프로필 ${profiles.length}곳`));button.title=profiles.map(p=>p.network).join(' / ');button.append(mark,text);
+      const text=node('span');text.append(node('strong',id.toUpperCase()),node('small',`검토 프로필 ${profiles.length}곳`));button.title=profiles.map(p=>p.network).join(' / ');button.append(text);
       button.addEventListener('click',()=>{
         rememberedChains.set(coinId,chainId);coinId=id;chainId=rememberedChains.get(id)??sourceProfileKey(profiles[0]);
         for(const entry of list.children)entry.setAttribute('aria-pressed',String(entry.dataset.coinId===id));

diff --git a/web/index.html b/web/index.html
@@ -21,7 +21,7 @@
   </div>
   <aside id="atlas-sidebar" class="sidebar" aria-label="주 탐색">
     <div class="sidebar-brand-row">
-      <a class="brand" href="#overview" aria-label="Stablecoin Atlas 전체 현황"><span class="brand-mark" aria-hidden="true">a<span></span></span><span class="brand-name">Stablecoin<strong>Atlas</strong></span></a>
+      <a class="brand" href="#overview" aria-label="Stablecoin Atlas 전체 현황"><span class="brand-name"><span>Stablecoin</span><strong>Atlas</strong></span></a>
       <button id="sidebar-toggle" class="navigation-toggle" type="button" aria-label="사이드바 접기" aria-controls="primary-navigation" aria-expanded="true"><svg viewBox="0 0 20 20" aria-hidden="true"><path d="m12 5-5 5 5 5"/></svg></button>
     </div>
     <nav id="primary-navigation" aria-label="주 메뉴">

diff --git a/docs/design/2026-11-01-interface-renewal.md b/docs/design/2026-11-01-interface-renewal.md
@@ -2,6 +2,14 @@
 
 브랜치: `design/atlas-interface-renewal`. 운영 배포와 main 병합은 하지 않는다.
 
+## 워드마크 방향 정정
+
+후속 사용자 지시에 따라 소문자 a 심벌을 제거했다. 기하학적 A, 육각형, 네트워크 노드 등 대체 심벌을 만들지 않는다. 작은 산세리프 Stablecoin과 큰 Georgia 세리프 Atlas를 함께 배치하고, 자간·크기·기준선·명암으로 브랜드를 표현한다. 접힌 사이드바에도 Atlas 단어를 유지하며 모바일은 같은 두 서체를 한 줄로 배치한다. 폰트는 설치된 시스템 글꼴이며 새 다운로드는 없다.
+
+메뉴에는 장식 아이콘을 추가하지 않았다. 자산 선택 목록의 반복되는 이니셜도 제거했다. 메뉴 열기·접기처럼 기능이 명확한 조작 기호는 유지한다. 사이드바의 구획과 선택 표면을 다듬고 KPI는 미세한 색조 차이, 큰 수치, 가는 선, 네트워크·기준일 하단 영역으로 깊이를 만들었다. 모바일에서는 단위를 별도 행에 놓아 두 지표의 하단 정보가 같은 높이에 정렬된다.
+
+다크/라이트·접힌 탐색·모바일 실제 렌더링을 재검토했고 첫 시안의 모바일 KPI 기준일 높이 차이를 수정했다. 브라우저 검증에 워드마크 텍스트·심벌 부재·모바일 하단 정보 정렬 조건을 반영했다. 아래 스크린샷은 이 정정본으로 갱신했다(변경 전 화면은 역사 기록으로 보존).
+
 ## 디자인 방향과 토큰
 
 공급량·전송 활동·기술 근거를 읽는 분석 환경이다. 주인공은 가격·수량·날짜이며, 보라색은 브랜드와 선택 위치를 표현한다. 배경과 구획의 밝기 차이, 숫자와 보조 정보의 크기 차이로 정보의 깊이를 만든다.

diff --git a/docs/handoff/2026-11-01-wordmark-refinement.md b/docs/handoff/2026-11-01-wordmark-refinement.md
@@ -1,0 +1,9 @@
+# 워드마크 중심 브랜드 정정
+- 목표: 심벌 대신 Stablecoin Atlas 이름의 타이포그래피로 브랜드를 만들고 사이드바/KPI의 완성도를 높인다.
+- 끝난 것: 소문자 a·자산 선택 이니셜 제거. 작은 산세리프 Stablecoin/큰 세리프 Atlas, 접힘 Atlas/모바일 한 줄 워드마크. 사이드바 구획·선택 표면·KPI 수치/단위/기준일·얕은 표면 색조 조정. 모바일 KPI 하단 정보 정렬 확인. 실제 reader 자료 렌더링/화면 갱신. 기존 동작/API/배포 유지·운영 변경0/새 다운로드0/추가Agent0.
+- 변경 파일: web/index.html, web/source-review.js, web/styles.css, tools/ui-design-browser-check.mjs, docs/design/2026-11-01-interface-renewal.md, docs/design/atlas-interface/, docs/research/2026-11-01-wordmark-refinement.md
+- 검증: npm run check rc0/879pass/0fail/기존8skip. Chrome 디자인 브라우저 개발·운영 HTML PASS/JS오류0/외부HTTP0/360~1600px/다크·라이트/접힘 저장/단어·심벌 부재/KPI 정렬. git diff --check 통과.
+- 기다리는 것: 없음
+- 다음 행동: 현재 design/atlas-interface-renewal 브랜치에서 사용자 화면 피드백을 반영한다. 로컬 웹은 127.0.0.1:54871에서 기존 reader로 실행 중이다. main 병합·운영 배포는 별도 지시 후 진행한다.
+- 사용자 확인 필요: 예 — 워드마크와 화면 디자인 검토.
+- 읽을 파일: docs/design/2026-11-01-interface-renewal.md, docs/research/2026-11-01-wordmark-refinement.md

diff --git a/docs/research/2026-11-01-wordmark-refinement.md b/docs/research/2026-11-01-wordmark-refinement.md
@@ -1,0 +1,7 @@
+# 워드마크·사이드바·KPI 정정
+
+사용자가 심벌을 배제하고 이름을 활용한 고급 워드마크를 요청했다. 기존 디자인 브랜치에서 소문자 a와 자산 목록 이니셜을 제거하고 산세리프 Stablecoin/세리프 Atlas의 서체·자간·크기 대비를 적용했다. 접힌 탐색과 모바일에서도 단어를 유지했다. 새 로고 SVG나 이미지·라이브러리·폰트를 취득하지 않았다.
+
+실제 reader 저장 자료를 렌더링해 사이드바와 KPI를 평가했다. 미세한 표면 색조와 가는 구획, 큰 수치와 단위·기준일 분리를 적용했다. 첫 모바일 렌더링에서 단위 줄바꿈 때문에 KPI 하단 정보가 어긋나 동일한 숫자/단위 행 높이로 수정한 뒤 브라우저에서 두 하단 위치 차이 2px 미만을 검사했다. 동작/API/자료/수집/배포 설정은 유지했고 운영 변경은 없다.
+
+검증: `npm run check` rc0 / 879 pass / 0 fail / 기존 compiler 관련 8 skip. Chrome 디자인 브라우저 도구 개발·운영 HTML PASS / JS 오류 0 / 외부 HTTP 요청 0. 워드마크·접힘 저장·메뉴/검색·다크/라이트·360~1600px·popover/focus·오류/빈 상태·로딩을 확인했다. `git diff --check` 통과. 스크린샷과 재현 명령은 [디자인 기록](../design/2026-11-01-interface-renewal.md)을 따른다. 실제 모바일 기기/Safari 검사는 수행하지 않았다.
